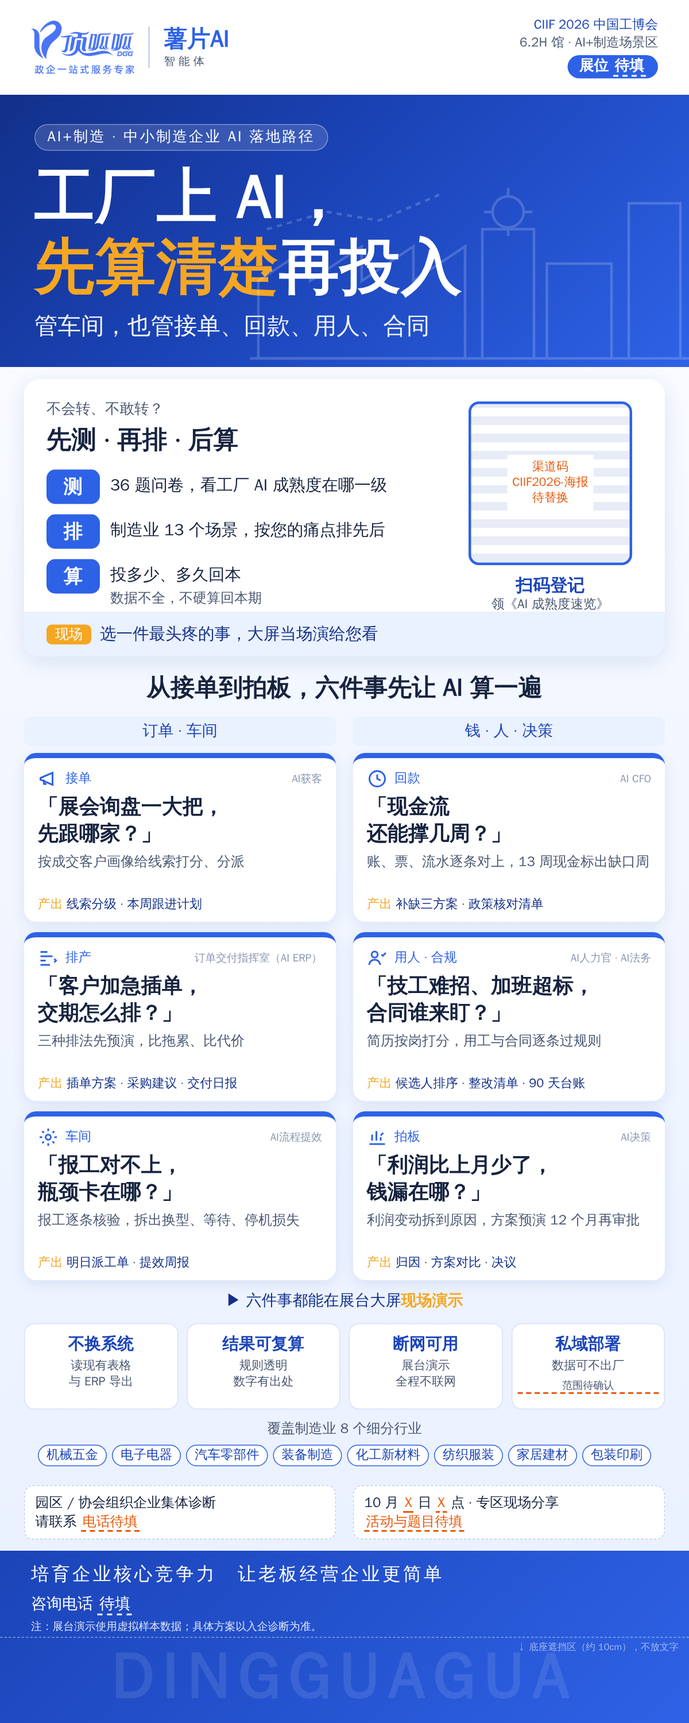
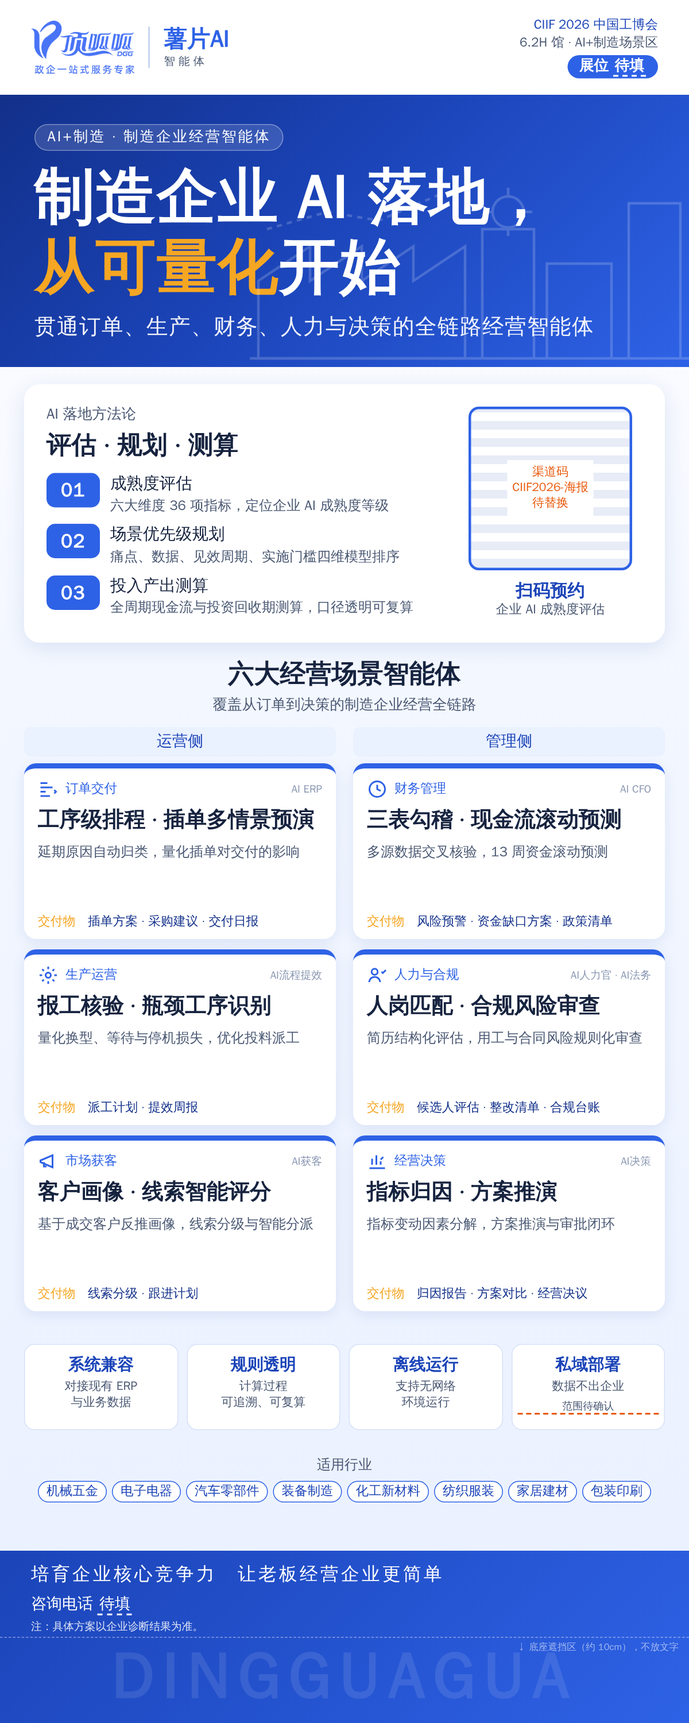
docs(ciif-2026): 海报 v2——专业化表达，移除销售话术类内容
Claude-Session: https://claude.ai/code/session_01N2KqNqYVcnSw2UkH8xm6m3

Changed region(s): [[0.0308, 0.062, 0.9558, 0.899], [0.0925, 0.93, 0.2775, 0.961]]

diff --git a/ciif-2026/poster/poster.html b/ciif-2026/poster/poster.html
@@ -38,17 +38,17 @@
   .eyebrow{display:inline-block;font-size:17px;font-weight:700;letter-spacing:2px;background:rgba(255,255,255,.14);border:1px solid rgba(255,255,255,.35);border-radius:18px;padding:3px 14px}
   .h1{font-size:70px;font-weight:900;line-height:1.16;margin-top:14px;letter-spacing:1px}
   .h1 em{font-style:normal;color:var(--amber)}
-  .sub{font-size:27px;font-weight:500;margin-top:10px;opacity:.95}
+  .sub{font-size:25px;font-weight:500;margin-top:12px;letter-spacing:1px;opacity:.95}
 
   /* ③ 起步带 + 扫码 410–745 */
-  .start{position:absolute;left:28px;top:440px;width:744px;height:322px;background:#fff;border-radius:18px;
+  .start{position:absolute;left:28px;top:446px;width:744px;height:300px;background:#fff;border-radius:18px;
          box-shadow:0 6px 24px rgba(30,70,160,.12);padding:24px 26px 0;overflow:hidden}
   .start h2{font-size:29px;font-weight:900;color:var(--ink)}
   .start h2 small{display:block;font-size:17px;font-weight:500;color:var(--ink-2);margin-bottom:4px}
-  .steps{margin-top:14px;width:460px}
-  .step{display:flex;align-items:flex-start;gap:12px;margin-bottom:12px}
-  .step .n{flex:0 0 auto;width:62px;height:40px;border-radius:10px;background:var(--blue);color:#fff;font-size:22px;font-weight:900;display:flex;align-items:center;justify-content:center}
-  .step .t{font-size:19px;line-height:1.35;padding-top:6px}
+  .steps{margin-top:12px;width:470px}
+  .step{display:flex;align-items:flex-start;gap:12px;margin-bottom:10px}
+  .step .n{flex:0 0 auto;width:62px;letter-spacing:1px;height:40px;border-radius:10px;background:var(--blue);color:#fff;font-size:22px;font-weight:900;display:flex;align-items:center;justify-content:center}
+  .step .t{font-size:19px;line-height:1.3;padding-top:0}
   .step .t b{font-weight:700}
   .step .t span{color:var(--ink-2);font-size:16px}
   .qr{position:absolute;right:26px;top:26px;width:214px;text-align:center}
@@ -61,31 +61,32 @@
   .live i{font-style:normal;display:inline-block;background:var(--amber);color:#fff;border-radius:6px;padding:1px 10px;margin-right:10px;font-size:16px}
 
   /* ④ 六件事 765–1515 */
-  .six{position:absolute;left:28px;top:780px;width:744px}
-  .six h2{font-size:28px;font-weight:900;text-align:center}
+  .six{position:absolute;left:28px;top:762px;width:744px}
+  .six h2{font-size:30px;font-weight:900;text-align:center}
+  .six .h2s{text-align:center;font-size:17px;color:var(--ink-2);margin-top:4px}
   .cols{display:flex;justify-content:space-between;margin:14px 0 8px}
   .cols div{width:362px;text-align:center;font-size:18px;font-weight:700;color:var(--blue-d);background:var(--blue-l);border-radius:8px;padding:5px 0}
   .grid{display:grid;grid-template-columns:362px 362px;column-gap:20px;row-gap:12px}
-  .card{background:#fff;border-radius:14px;border-top:6px solid var(--blue);box-shadow:0 4px 16px rgba(30,70,160,.10);height:196px;padding:12px 16px 10px;display:flex;flex-direction:column}
+  .card{background:#fff;border-radius:14px;border-top:6px solid var(--blue);box-shadow:0 4px 16px rgba(30,70,160,.10);height:204px;padding:12px 16px 10px;display:flex;flex-direction:column}
   .card .tag{display:flex;align-items:center;gap:8px;font-size:15px;font-weight:700;color:var(--blue)}
   .card .tag svg{width:24px;height:24px}
-  .card .q{font-size:24px;font-weight:900;line-height:1.3;margin-top:6px;color:var(--ink)}
-  .card .how{font-size:16px;line-height:1.4;color:var(--ink-2);margin-top:5px}
+  .card .q{font-size:25px;font-weight:900;line-height:1.3;margin-top:8px;color:var(--ink)}
+  .card .how{font-size:16px;line-height:1.5;color:var(--ink-2);margin-top:8px}
   .card .ft{margin-top:auto;display:flex;justify-content:space-between;align-items:flex-end;gap:8px}
   .card .out{font-size:14.5px;font-weight:700;color:var(--blue-dd)}
-  .card .out::before{content:"产出 ";color:var(--amber)}
+  .card .out::before{content:"交付物　";color:var(--amber)}
   .card .mod{margin-left:auto;font-size:12.5px;font-weight:500;color:#8A97B2}
   .demo{margin-top:12px;text-align:center;font-size:18px;font-weight:700;color:var(--blue-dd)}
   .demo b{color:var(--amber)}
 
   /* ⑤ 信任条 1525–1640 */
-  .trust{position:absolute;left:28px;top:1536px;width:744px;height:100px;display:grid;grid-template-columns:repeat(4,1fr);gap:10px}
+  .trust{position:absolute;left:28px;top:1560px;width:744px;height:100px;display:grid;grid-template-columns:repeat(4,1fr);gap:10px}
   .trust div{background:#fff;border:1.5px solid var(--line);border-radius:12px;text-align:center;padding:10px 6px 0}
   .trust b{display:block;font-size:19px;font-weight:900;color:var(--blue-d)}
   .trust span{display:block;font-size:14px;color:var(--ink-2);margin-top:4px;line-height:1.35}
 
   /* ⑥ 行业 + 园区/活动 1650–1790 */
-  .ind{position:absolute;left:28px;top:1648px;width:744px;text-align:center}
+  .ind{position:absolute;left:28px;top:1690px;width:744px;text-align:center}
   .ind p{font-size:16px;color:var(--ink-2);margin-bottom:8px}
   .chips{display:flex;flex-wrap:nowrap;justify-content:center;gap:6px}
   .chips span{font-size:15px;font-weight:700;color:var(--blue-d);border:1.5px solid var(--blue);border-radius:16px;padding:2px 9px;background:#fff;white-space:nowrap}
@@ -128,88 +129,83 @@
     <circle cx="300" cy="40" r="18"/><path d="M300 12 V22 M300 58 V68 M272 40 H282 M318 40 H328"/>
     <path d="M20 60 L90 40 L150 50 L220 20" stroke-dasharray="6 6"/>
   </svg>
-  <div class="eyebrow">AI+制造 · 中小制造企业 AI 落地路径</div>
-  <div class="h1">工厂上 AI，<br><em>先算清楚</em>再投入</div>
-  <div class="sub">管车间，也管接单、回款、用人、合同</div>
+  <div class="eyebrow">AI+制造 · 制造企业经营智能体</div>
+  <div class="h1">制造企业 AI 落地，<br><em>从可量化</em>开始</div>
+  <div class="sub">贯通订单、生产、财务、人力与决策的全链路经营智能体</div>
 </div>
 
-<!-- ③ 起步带 + 扫码 -->
+<!-- ③ 方法论 + 扫码 -->
 <div class="start">
-  <h2><small>不会转、不敢转？</small>先测 · 再排 · 后算</h2>
+  <h2><small>AI 落地方法论</small>评估 · 规划 · 测算</h2>
   <div class="steps">
-    <div class="step"><div class="n">测</div><div class="t"><b>36 题问卷</b>，看工厂 AI 成熟度在哪一级</div></div>
-    <div class="step"><div class="n">排</div><div class="t"><b>制造业 13 个场景</b>，按您的痛点排先后</div></div>
-    <div class="step"><div class="n">算</div><div class="t"><b>投多少、多久回本</b><br><span>数据不全，不硬算回本期</span></div></div>
+    <div class="step"><div class="n">01</div><div class="t"><b>成熟度评估</b><br><span>六大维度 36 项指标，定位企业 AI 成熟度等级</span></div></div>
+    <div class="step"><div class="n">02</div><div class="t"><b>场景优先级规划</b><br><span>痛点、数据、见效周期、实施门槛四维模型排序</span></div></div>
+    <div class="step"><div class="n">03</div><div class="t"><b>投入产出测算</b><br><span>全周期现金流与投资回收期测算，口径透明可复算</span></div></div>
   </div>
   <div class="qr">
     <div class="box"><span>渠道码<br>CIIF2026-海报<br>待替换</span></div>
-    <div class="cta">扫码登记</div>
-    <div class="cta2">领《AI 成熟度速览》</div>
+    <div class="cta">扫码预约</div>
+    <div class="cta2">企业 AI 成熟度评估</div>
   </div>
-  <div class="live"><i>现场</i>选一件最头疼的事，大屏当场演给您看</div>
 </div>
 
-<!-- ④ 六件事 -->
+<!-- ④ 六大场景 -->
 <div class="six">
-  <h2>从接单到拍板，六件事先让 AI 算一遍</h2>
-  <div class="cols"><div>订单 · 车间</div><div>钱 · 人 · 决策</div></div>
+  <h2>六大经营场景智能体</h2>
+  <div class="h2s">覆盖从订单到决策的制造企业经营全链路</div>
+  <div class="cols"><div>运营侧</div><div>管理侧</div></div>
   <div class="grid">
     <div class="card">
-      <div class="tag"><svg viewBox="0 0 24 24" fill="none" stroke="currentColor" stroke-width="2"><path d="M3 11l14-6v14L3 13z"/><path d="M7 13v5h3"/></svg>接单<div class="mod">AI获客</div></div>
-      <div class="q">「展会询盘一大把，<br>先跟哪家？」</div>
-      <div class="how">按成交客户画像给线索打分、分派</div>
-      <div class="ft"><div class="out">线索分级 · 本周跟进计划</div></div>
-    </div>
-    <div class="card">
-      <div class="tag"><svg viewBox="0 0 24 24" fill="none" stroke="currentColor" stroke-width="2"><circle cx="12" cy="12" r="9"/><path d="M12 7v5l4 2"/></svg>回款<div class="mod">AI CFO</div></div>
-      <div class="q">「现金流<br>还能撑几周？」</div>
-      <div class="how">账、票、流水逐条对上，13 周现金标出缺口周</div>
-      <div class="ft"><div class="out">补缺三方案 · 政策核对清单</div></div>
-    </div>
-    <div class="card">
-      <div class="tag"><svg viewBox="0 0 24 24" fill="none" stroke="currentColor" stroke-width="2"><path d="M3 5h8M3 10h14M3 15h6M3 20h11"/><path d="M19 13l2 2-2 2"/></svg>排产<div class="mod">订单交付指挥室（AI ERP）</div></div>
-      <div class="q">「客户加急插单，<br>交期怎么排？」</div>
-      <div class="how">三种排法先预演，比拖累、比代价</div>
+      <div class="tag"><svg viewBox="0 0 24 24" fill="none" stroke="currentColor" stroke-width="2"><path d="M3 5h8M3 10h14M3 15h6M3 20h11"/><path d="M19 13l2 2-2 2"/></svg>订单交付<div class="mod">AI ERP</div></div>
+      <div class="q">工序级排程 · 插单多情景预演</div>
+      <div class="how">延期原因自动归类，量化插单对交付的影响</div>
       <div class="ft"><div class="out">插单方案 · 采购建议 · 交付日报</div></div>
     </div>
     <div class="card">
-      <div class="tag"><svg viewBox="0 0 24 24" fill="none" stroke="currentColor" stroke-width="2"><circle cx="9" cy="8" r="3.5"/><path d="M2.5 20c.8-4 3.4-6 6.5-6s5.7 2 6.5 6"/><path d="M17 8l1.5 1.5L22 6"/></svg>用人 · 合规<div class="mod">AI人力官 · AI法务</div></div>
-      <div class="q">「技工难招、加班超标，<br>合同谁来盯？」</div>
-      <div class="how">简历按岗打分，用工与合同逐条过规则</div>
-      <div class="ft"><div class="out">候选人排序 · 整改清单 · 90 天台账</div></div>
+      <div class="tag"><svg viewBox="0 0 24 24" fill="none" stroke="currentColor" stroke-width="2"><circle cx="12" cy="12" r="9"/><path d="M12 7v5l4 2"/></svg>财务管理<div class="mod">AI CFO</div></div>
+      <div class="q">三表勾稽 · 现金流滚动预测</div>
+      <div class="how">多源数据交叉核验，13 周资金滚动预测</div>
+      <div class="ft"><div class="out">风险预警 · 资金缺口方案 · 政策清单</div></div>
     </div>
     <div class="card">
-      <div class="tag"><svg viewBox="0 0 24 24" fill="none" stroke="currentColor" stroke-width="2"><circle cx="12" cy="12" r="3"/><path d="M12 2v3M12 19v3M2 12h3M19 12h3M5 5l2 2M17 17l2 2M5 19l2-2M17 7l2-2"/></svg>车间<div class="mod">AI流程提效</div></div>
-      <div class="q">「报工对不上，<br>瓶颈卡在哪？」</div>
-      <div class="how">报工逐条核验，拆出换型、等待、停机损失</div>
-      <div class="ft"><div class="out">明日派工单 · 提效周报</div></div>
+      <div class="tag"><svg viewBox="0 0 24 24" fill="none" stroke="currentColor" stroke-width="2"><circle cx="12" cy="12" r="3"/><path d="M12 2v3M12 19v3M2 12h3M19 12h3M5 5l2 2M17 17l2 2M5 19l2-2M17 7l2-2"/></svg>生产运营<div class="mod">AI流程提效</div></div>
+      <div class="q">报工核验 · 瓶颈工序识别</div>
+      <div class="how">量化换型、等待与停机损失，优化投料派工</div>
+      <div class="ft"><div class="out">派工计划 · 提效周报</div></div>
     </div>
     <div class="card">
-      <div class="tag"><svg viewBox="0 0 24 24" fill="none" stroke="currentColor" stroke-width="2"><path d="M3 20h18"/><path d="M6 16V9M11 16V5M16 16v-4"/><path d="M19 7l-3 3"/></svg>拍板<div class="mod">AI决策</div></div>
-      <div class="q">「利润比上月少了，<br>钱漏在哪？」</div>
-      <div class="how">利润变动拆到原因，方案预演 12 个月再审批</div>
-      <div class="ft"><div class="out">归因 · 方案对比 · 决议</div></div>
+      <div class="tag"><svg viewBox="0 0 24 24" fill="none" stroke="currentColor" stroke-width="2"><circle cx="9" cy="8" r="3.5"/><path d="M2.5 20c.8-4 3.4-6 6.5-6s5.7 2 6.5 6"/><path d="M17 8l1.5 1.5L22 6"/></svg>人力与合规<div class="mod">AI人力官 · AI法务</div></div>
+      <div class="q">人岗匹配 · 合规风险审查</div>
+      <div class="how">简历结构化评估，用工与合同风险规则化审查</div>
+      <div class="ft"><div class="out">候选人评估 · 整改清单 · 合规台账</div></div>
+    </div>
+    <div class="card">
+      <div class="tag"><svg viewBox="0 0 24 24" fill="none" stroke="currentColor" stroke-width="2"><path d="M3 11l14-6v14L3 13z"/><path d="M7 13v5h3"/></svg>市场获客<div class="mod">AI获客</div></div>
+      <div class="q">客户画像 · 线索智能评分</div>
+      <div class="how">基于成交客户反推画像，线索分级与智能分派</div>
+      <div class="ft"><div class="out">线索分级 · 跟进计划</div></div>
+    </div>
+    <div class="card">
+      <div class="tag"><svg viewBox="0 0 24 24" fill="none" stroke="currentColor" stroke-width="2"><path d="M3 20h18"/><path d="M6 16V9M11 16V5M16 16v-4"/><path d="M19 7l-3 3"/></svg>经营决策<div class="mod">AI决策</div></div>
+      <div class="q">指标归因 · 方案推演</div>
+      <div class="how">指标变动因素分解，方案推演与审批闭环</div>
+      <div class="ft"><div class="out">归因报告 · 方案对比 · 经营决议</div></div>
     </div>
   </div>
-  <div class="demo">▶ 六件事都能在展台大屏<b>现场演示</b></div>
 </div>
 
-<!-- ⑤ 信任条 -->
+<!-- ⑤ 能力底座 -->
 <div class="trust">
-  <div><b>不换系统</b><span>读现有表格<br>与 ERP 导出</span></div>
-  <div><b>结果可复算</b><span>规则透明<br>数字有出处</span></div>
-  <div><b>断网可用</b><span>展台演示<br>全程不联网</span></div>
-  <div><b>私域部署</b><span>数据可不出厂<br><span class="todo" style="font-size:12px">范围待确认</span></span></div>
+  <div><b>系统兼容</b><span>对接现有 ERP<br>与业务数据</span></div>
+  <div><b>规则透明</b><span>计算过程<br>可追溯、可复算</span></div>
+  <div><b>离线运行</b><span>支持无网络<br>环境运行</span></div>
+  <div><b>私域部署</b><span>数据不出企业<br><span class="todo" style="font-size:12px">范围待确认</span></span></div>
 </div>
 
-<!-- ⑥ 行业 + 园区/活动 -->
+<!-- ⑥ 适用行业 -->
 <div class="ind">
-  <p>覆盖制造业 8 个细分行业</p>
+  <p>适用行业</p>
   <div class="chips"><span>机械五金</span><span>电子电器</span><span>汽车零部件</span><span>装备制造</span><span>化工新材料</span><span>纺织服装</span><span>家居建材</span><span>包装印刷</span></div>
-</div>
-<div class="extra">
-  <div>园区 / 协会组织企业集体诊断<br>请联系 <span class="todo">电话待填</span></div>
-  <div>10 月 <span class="todo">X</span> 日 <span class="todo">X</span> 点 · 专区现场分享<br><span class="todo">活动与题目待填</span></div>
 </div>
 
 <!-- ⑦ 页脚 -->
@@ -220,7 +216,7 @@
   <div class="row" style="margin-top:8px">
     <div class="tel">咨询电话 <span class="todo" style="color:#fff;border-color:#fff">待填</span></div>
   </div>
-  <div class="note">注：展台演示使用虚拟样本数据；具体方案以入企诊断为准。</div>
+  <div class="note">注：具体方案以企业诊断结果为准。</div>
   <div class="wm">DINGGUAGUA</div>
 </div>
 <div class="base"><span>↓ 底座遮挡区（约 10cm），不放文字</span></div>

diff --git a/ciif-2026/02-工博会海报方案.md b/ciif-2026/02-工博会海报方案.md
@@ -29,95 +29,67 @@
 
 ---
 
-## 二、策略（一句话）
+## 二、策略（v2）
 
-让中小制造企业的老板、厂长和信息化负责人在 3 秒内记住：**"工厂上 AI，先算清楚再投入"——薯片AI 帮您先测、再排、后算，插单、报工、现金流、用人这些事，现场就能演给您看。**
+v2 根据两条反馈修订：
+1. **语言从口语化改为专业表达**：用方法论和能力体系来讲，不用老板口语问句。
+2. **海报和销售话术分开**：现场演示邀约、"大屏演给您看"、园区协会联络、活动时间这类内容由销售口头传达，不上海报。
 
-主张和工博会三处对应：
-- AI+工业"X"区块的定位"为中小制造企业 AI 落地提供可复制的路径参考"；
-- IN3C 大会议题"不愿转、不敢转、不会转"；
-- 专区"业务拓客"的核心目标，海报每一屏都在引导扫码或到大屏前演示。
+海报只承担三件事：**品牌定位（我们是谁）、能力体系（能做什么）、行动入口（扫码预约）**。
 
 ---
 
-## 三、最终文案（逐区，从上到下）
+## 三、最终文案 v2（逐区，从上到下）
 
-| 区 | 位置（离地） | 文案 |
-|---|---|---|
-| ① 顶栏 | 189–200cm | 左：顶呱呱 logo｜薯片AI 智能体。右：**CIIF 2026 中国工博会 · 6.2H 馆 · AI+制造场景区 · 展位【待填】** |
-| ② 主标题 | 157–189cm | 眉题：**AI+制造 · 中小制造企业 AI 落地路径**<br>主标题：**工厂上 AI，先算清楚再投入**（"先算清楚"用琥珀色）<br>副标题：**管车间，也管接单、回款、用人、合同** |
-| ③ 起步带＋扫码 | 124–156cm（扫码高度正好） | 眉题：不会转、不敢转？<br>标题：**先测 · 再排 · 后算**<br>测｜36 题问卷，看工厂 AI 成熟度在哪一级<br>排｜制造业 13 个场景，按您的痛点排先后<br>算｜投多少、多久回本（小字：数据不全，不硬算回本期）<br>二维码（边长 ≥18cm）：**扫码登记 · 领《AI 成熟度速览》**<br>底条：**【现场】选一件最头疼的事，大屏当场演给您看** |
-| ④ 六件事 | 47–122cm | 标题：**从接单到拍板，六件事先让 AI 算一遍**<br>左列"订单 · 车间"，右列"钱 · 人 · 决策"，每张卡 = 痛点问句（大字）＋ 做法（一行）＋ 产出物（标签）＋ 模块名（右上小字）<br>底行：**▶ 六件事都能在展台大屏现场演示** |
-| ⑤ 信任条 | 36–46cm | **不换系统**（读现有表格与 ERP 导出）· **结果可复算**（规则透明，数字有出处）· **断网可用**（展台演示全程不联网）· **私域部署**（数据可不出厂【范围待确认】） |
-| ⑥ 行业＋园区＋活动 | 20–35cm | 覆盖制造业 8 个细分行业：机械五金｜电子电器｜汽车零部件｜装备制造｜化工新材料｜纺织服装｜家居建材｜包装印刷<br>**园区 / 协会组织企业集体诊断，请联系【电话待填】**<br>**10 月【X】日【X】点 · 专区现场分享【活动与题目待填】** |
-| ⑦ 页脚 | 10–20cm | **培育企业核心竞争力　让老板经营企业更简单**｜咨询电话【待填】<br>脚注：展台演示使用虚拟样本数据；具体方案以入企诊断为准。 |
-| 底座区 | 0–10cm | 只放水印，不放文字 |
+| 区 | 文案 |
+|---|---|
+| ① 顶栏 | 左：顶呱呱 logo｜薯片AI 智能体；右：CIIF 2026 中国工博会 · 6.2H 馆 · AI+制造场景区 · 展位【待填】 |
+| ② 主标题 | 眉题：**AI+制造 · 制造企业经营智能体**<br>主标题：**制造企业 AI 落地，从可量化开始**<br>副标题：**贯通订单、生产、财务、人力与决策的全链路经营智能体** |
+| ③ 方法论＋扫码 | 眉题：AI 落地方法论　标题：**评估 · 规划 · 测算**<br>01 成熟度评估｜六大维度 36 项指标，定位企业 AI 成熟度等级<br>02 场景优先级规划｜痛点、数据、见效周期、实施门槛四维模型排序<br>03 投入产出测算｜全周期现金流与投资回收期测算，口径透明可复算<br>二维码：**扫码预约 · 企业 AI 成熟度评估** |
+| ④ 六大场景 | 标题：**六大经营场景智能体**　副题：覆盖从订单到决策的制造企业经营全链路（左列"运营侧"，右列"管理侧"） |
+| ⑤ 能力底座 | **系统兼容**（对接现有 ERP 与业务数据）· **规则透明**（计算过程可追溯、可复算）· **离线运行**（支持无网络环境运行）· **私域部署**（数据不出企业【范围待确认】） |
+| ⑥ 适用行业 | 机械五金｜电子电器｜汽车零部件｜装备制造｜化工新材料｜纺织服装｜家居建材｜包装印刷 |
+| ⑦ 页脚 | 培育企业核心竞争力　让老板经营企业更简单｜咨询电话【待填】｜注：具体方案以企业诊断结果为准。 |
 
-### 六张卡片
+### 六大场景卡
 
-| 列 | 环节 | 痛点问句（大字） | 做法（一行） | 产出 | 模块 |
+| 侧 | 场景 | 核心能力（大字） | 说明 | 交付物 | 模块 |
 |---|---|---|---|---|---|
-| 订单 · 车间 | 接单 | 「展会询盘一大把，先跟哪家？」 | 按成交客户画像给线索打分、分派 | 线索分级 · 本周跟进计划 | AI获客 |
-| 订单 · 车间 | 排产 | 「客户加急插单，交期怎么排？」 | 三种排法先预演，比拖累、比代价 | 插单方案 · 采购建议 · 交付日报 | 订单交付指挥室（AI ERP） |
-| 订单 · 车间 | 车间 | 「报工对不上，瓶颈卡在哪？」 | 报工逐条核验，拆出换型、等待、停机损失 | 明日派工单 · 提效周报 | AI流程提效 |
-| 钱 · 人 · 决策 | 回款 | 「现金流还能撑几周？」 | 账、票、流水逐条对上，13 周现金标出缺口周 | 补缺三方案 · 政策核对清单 | AI CFO |
-| 钱 · 人 · 决策 | 用人 · 合规 | 「技工难招、加班超标，合同谁来盯？」 | 简历按岗打分，用工与合同逐条过规则 | 候选人排序 · 整改清单 · 90 天台账 | AI人力官 · AI法务 |
-| 钱 · 人 · 决策 | 拍板 | 「利润比上月少了，钱漏在哪？」 | 利润变动拆到原因，方案预演 12 个月再审批 | 归因 · 方案对比 · 决议 | AI决策 |
+| 运营侧 | 订单交付 | 工序级排程 · 插单多情景预演 | 延期原因自动归类，量化插单对交付的影响 | 插单方案 · 采购建议 · 交付日报 | AI ERP |
+| 运营侧 | 生产运营 | 报工核验 · 瓶颈工序识别 | 量化换型、等待与停机损失，优化投料派工 | 派工计划 · 提效周报 | AI流程提效 |
+| 运营侧 | 市场获客 | 客户画像 · 线索智能评分 | 基于成交客户反推画像，线索分级与智能分派 | 线索分级 · 跟进计划 | AI获客 |
+| 管理侧 | 财务管理 | 三表勾稽 · 现金流滚动预测 | 多源数据交叉核验，13 周资金滚动预测 | 风险预警 · 资金缺口方案 · 政策清单 | AI CFO |
+| 管理侧 | 人力与合规 | 人岗匹配 · 合规风险审查 | 简历结构化评估，用工与合同风险规则化审查 | 候选人评估 · 整改清单 · 合规台账 | AI人力官 · AI法务 |
+| 管理侧 | 经营决策 | 指标归因 · 方案推演 | 指标变动因素分解，方案推演与审批闭环 | 归因报告 · 方案对比 · 经营决议 | AI决策 |
 
-11 个模块的去向：
-- 01 成熟度、02 场景排序、03 ROI：放在起步带的"测、排、算"。
-- 04–10：分布在六张卡里。
-- 11 AI软件开发：不上海报。建议放在电视上做互动演示，比如"一句话生成设备点检单，扫码就能用"。
+### 从海报移到销售话术的内容
 
-### 篇幅
-
-- 全文约 600 个汉字，另有约 17 个占位字。
-- **3 秒阅读层**只有主标题、副标题和六个问句，约 90 字。其余内容给停下来的人看。
-- 设计师觉得太满，可以出**精简版**：删掉六张卡的"做法"行（约 −100 字），问句和产出物保留。
-
-### 视觉规则
-
-- 品牌蓝加一个琥珀色强调色。**不用原型里的 11 种模块色**，免得和专区统一视觉冲突。
-- 背景换成厂房、产线的线稿，去掉顶呱呱大楼。
-- 不使用"工赋®"（注册商标）。CIIF 标识的使用要向主办方确认授权和规范。
-- 用字统一称"您"，不出现"最、第一、唯一、100%、保证"。
-- 六张卡的最下一行（车间、拍板）离地约 48–68cm，站着看偏低，所以放了相对次要的两张。如果主办方允许背墙或更大画面，优先改成横版，让六张卡都落在离地 90cm 以上。
+- "选一件最头疼的事，大屏当场演给您看"
+- "六件事都能在展台大屏现场演示"
+- 园区、协会组织集体诊断的联络
+- 现场分享活动的时间和题目
+- v1 里的老板口语问句，比如「客户加急插单，交期怎么排？」。它们仍然适合销售开场拦人，但不上海报。
 
 ---
 
 ## 四、和旧海报的对照
 
-| 类别 | 旧海报 | 新海报 | 原因 |
-|---|---|---|---|
-| 保留 | 双 logo、品牌蓝、页脚 slogan | 保留 | "让老板经营企业更简单"和新主张一致 |
-| 保留 | 二维码 | 放大到 ≥18cm，移到离地约 140cm，写明扫码能拿到什么 | 专区核心目标是线索 |
-| 保留（换形式） | 11 宫格 | 改成"测排算"起步带 + 六张场景卡 | 话术稿原则："开场不说 11 个模块" |
-| 删除 | 展位号 6A-B034-B035、杭州地址 | 换成工博会展位【待填】 | 杭州信息 |
-| 删除 | 150 字介绍段落 | 换成主标题 + 副标题 | 没有制造业用语 |
-| 删除 | ↑30% / ↓15 分钟 / ↑45% | 删除；补齐口径和出处后可以放回信任条 | 口径不明，有误读和合规风险 |
-| 降级 | "18 年真实场景验证 · 530 万+数据支撑" | 暂不上。确认起算年份、统计对象和截止日期后，可在信任条加一句并标出处 | 同上 |
-| 新增 | — | 行业入口、"不换系统 / 断网 / 私域"信任条、园区协会入口、现场活动钩子、脚注 | 回答"要不要换系统、数据出不出厂"，对接专区的线索来源 |
-| 不照搬竞品 | — | 不写 RFID、物联网、视觉质检、预测性维护 | 我们的 SKILL.md 里没有这些能力 |
+| 旧海报 | v2 | 原因 |
+|---|---|---|
+| 展位号 6A-B034-B035、杭州地址 | 工博会展位【待填】 | 杭州信息 |
+| 150 字通用介绍段落 | 主标题 + 副标题，定位"制造企业经营智能体" | 聚焦制造业 |
+| ↑30% / ↓15 分钟 / ↑45% | 暂不上。补齐口径和出处后可以加回 | 合规风险 |
+| 11 宫格只有模块名 | 方法论三步 + 六大场景卡（能力 + 交付物） | 讲清楚每个模块能做什么 |
+| 二维码写"专家咨询" | 扫码预约 · 企业 AI 成熟度评估 | 给出明确的行动入口 |
+| — | 能力底座、适用行业 | 回答系统兼容、数据安全的顾虑，给出行业入口 |
 
 ---
 
 ## 五、二维码与线索承接
 
-- **两条行动号召**：
-  - 主：**"选一件最头疼的事，大屏当场演给您看"**，门槛低，把人引到电视前。
-  - 次：**扫码登记，领《AI 成熟度速览》**，把线索带走。
-- **扫码后**：落地到企业微信活码或 H5【承接主体待确认】。表单只问最少的几项：
-  - 企业名称
-  - 细分行业（8 选 1，和海报的行业条一致）
-  - 人员规模
-  - "今天最想解决哪件事"（6 选 1，和六张卡一致，用作分派标签）
-  - 手机号，并勾选同意隐私政策
-- **渠道参数**：海报码用 `CIIF2026-海报`，电视演示码用 `CIIF2026-演示屏`，分开统计。
-- **自用即演示**：线索导入我们自己的 AI获客 线索池，做打分和分派。这一句本身就是现场话术。
-- **园区和协会**：专区对线索的定义里就包括工业园区和协会机构，海报上专门给了入口。
-- **注意**：现在没有手机端自助答 36 题的 H5，原型的"结果发送到微信"承接方式也没定（README 里 `&wx=` 待定）。所以文案写的是"扫码登记，领速览"，由顾问会后发送。**如果能在展前做好 H5**，可以改成"扫码测一测，报告发到微信 · 36 题约 6–8 分钟"。
-
----
+- 二维码落地到企业微信活码或 H5【承接主体待确认】，渠道参数用 `CIIF2026-海报`。
+- 表单只问最少的几项：企业名称、细分行业、人员规模、关注场景（6 选 1）、手机号，并勾选同意隐私政策。
+- 线索导入 AI获客 做分级和分派。
 
 ## 六、适配主办方的画面要求
 
@@ -177,4 +149,4 @@
 2. **话术稿的说法和能力定义冲突**：话术稿有"先看您在同行里排第几"，但 01 的参考带是 v0 估算值，对外只能说"同行参考带"，不能说排名。
 3. **"AI ERP"容易被理解成要替换现有 ERP**（同馆有用友、鼎捷）。对外统一叫"订单交付指挥室"，强调"接在现有 ERP 之上"。
 4. **展位号和展会名是硬编码的**（4 个文件加展板原图），m1 报告封底还会印出"展位号 undefined"，要改。
-5. **"带张表现场读"不要印上海报**。放在话术里，并配"本机断网处理、演示后当面删除"的提示。
+5. 现场演示邀约和"带张表现场读"等内容放在销售话术里，不上海报；读客户自己的数据时要配"本机断网处理、演示后当面删除"的提示。
